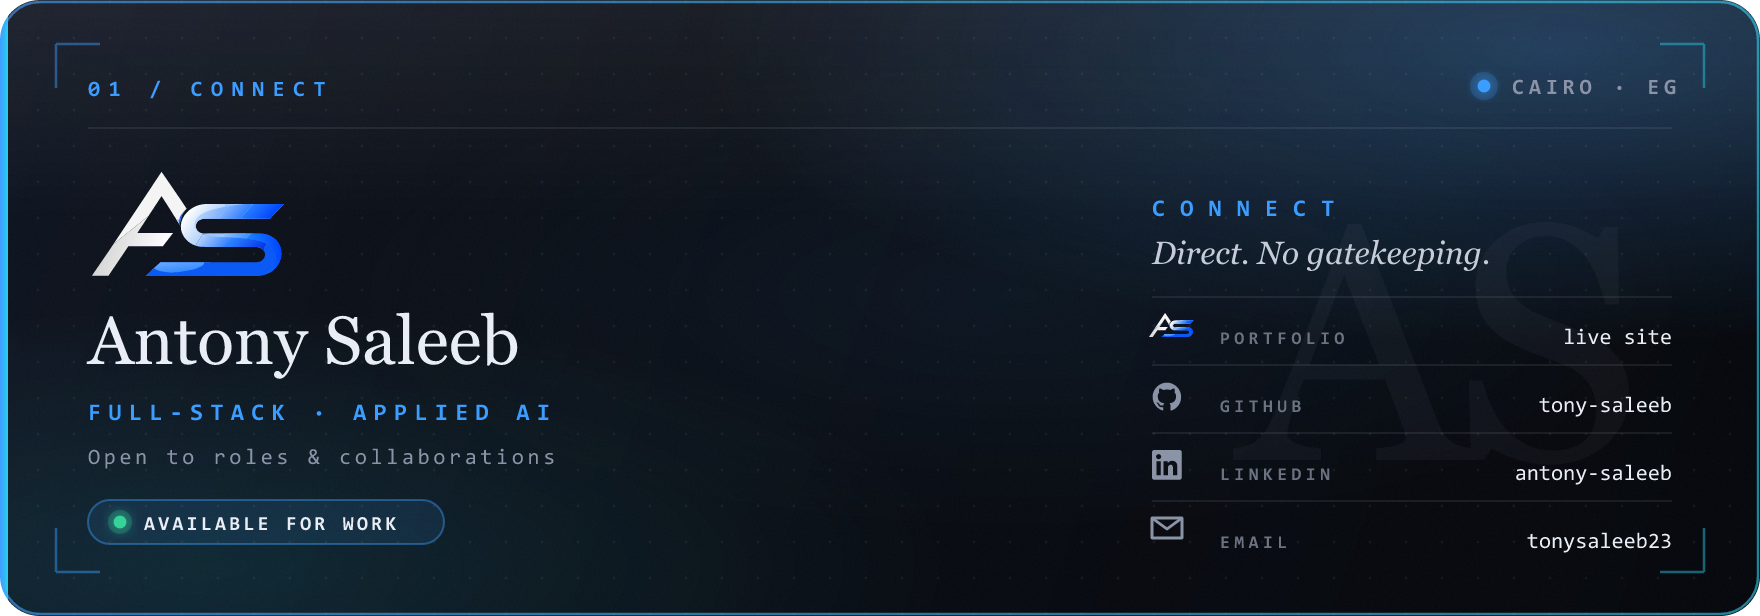
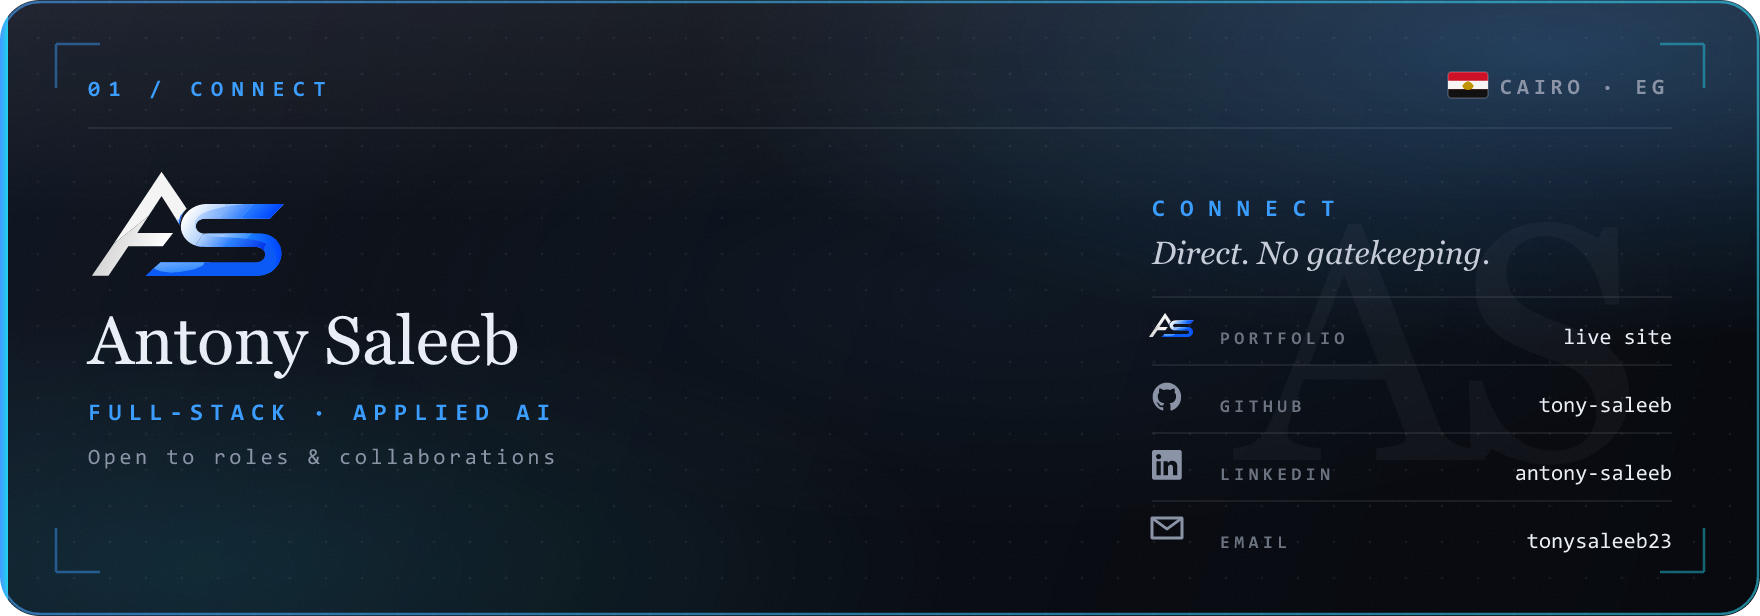
Replace Cairo status dot with Egypt flag and drop the available-for-work pill.
Keep location branding without a job-status badge crowding the identity column.

Changed region(s): [[0.0312, 0.8019, 0.25, 0.8945], [0.8125, 0.0925, 0.9688, 0.1851]]

diff --git a/README.md b/README.md
@@ -45,18 +45,18 @@ Whether it's an MVP, a dream app, or an experimental project, I’m always down 
 
 <p align="center">
   <a href="https://antony-saleeb-portfolio.vercel.app/">
-    <img src="https://raw.githubusercontent.com/tony-saleeb/tony-saleeb/main/assets/connect/contact-panel.png?v=3" width="880" alt="Antony Saleeb — Full-Stack and Applied-AI Engineer" />
+    <img src="https://raw.githubusercontent.com/tony-saleeb/tony-saleeb/main/assets/connect/contact-panel.png?v=4" width="880" alt="Antony Saleeb — Full-Stack and Applied-AI Engineer" />
   </a>
 </p>
 
 <p align="center">
-  <a href="https://antony-saleeb-portfolio.vercel.app/"><img src="https://raw.githubusercontent.com/tony-saleeb/tony-saleeb/main/assets/connect/link-portfolio.png?v=3" height="48" alt="Portfolio" /></a>
+  <a href="https://antony-saleeb-portfolio.vercel.app/"><img src="https://raw.githubusercontent.com/tony-saleeb/tony-saleeb/main/assets/connect/link-portfolio.png?v=4" height="48" alt="Portfolio" /></a>
   &nbsp;
-  <a href="https://github.com/tony-saleeb"><img src="https://raw.githubusercontent.com/tony-saleeb/tony-saleeb/main/assets/connect/link-github.png?v=3" height="48" alt="GitHub" /></a>
+  <a href="https://github.com/tony-saleeb"><img src="https://raw.githubusercontent.com/tony-saleeb/tony-saleeb/main/assets/connect/link-github.png?v=4" height="48" alt="GitHub" /></a>
   &nbsp;
-  <a href="https://www.linkedin.com/in/antony-saleeb-2588a625a"><img src="https://raw.githubusercontent.com/tony-saleeb/tony-saleeb/main/assets/connect/link-linkedin.png?v=3" height="48" alt="LinkedIn" /></a>
+  <a href="https://www.linkedin.com/in/antony-saleeb-2588a625a"><img src="https://raw.githubusercontent.com/tony-saleeb/tony-saleeb/main/assets/connect/link-linkedin.png?v=4" height="48" alt="LinkedIn" /></a>
   &nbsp;
-  <a href="mailto:tonysaleeb23@gmail.com"><img src="https://raw.githubusercontent.com/tony-saleeb/tony-saleeb/main/assets/connect/link-email.png?v=3" height="48" alt="Email" /></a>
+  <a href="mailto:tonysaleeb23@gmail.com"><img src="https://raw.githubusercontent.com/tony-saleeb/tony-saleeb/main/assets/connect/link-email.png?v=4" height="48" alt="Email" /></a>
 </p>
 
 <picture>
